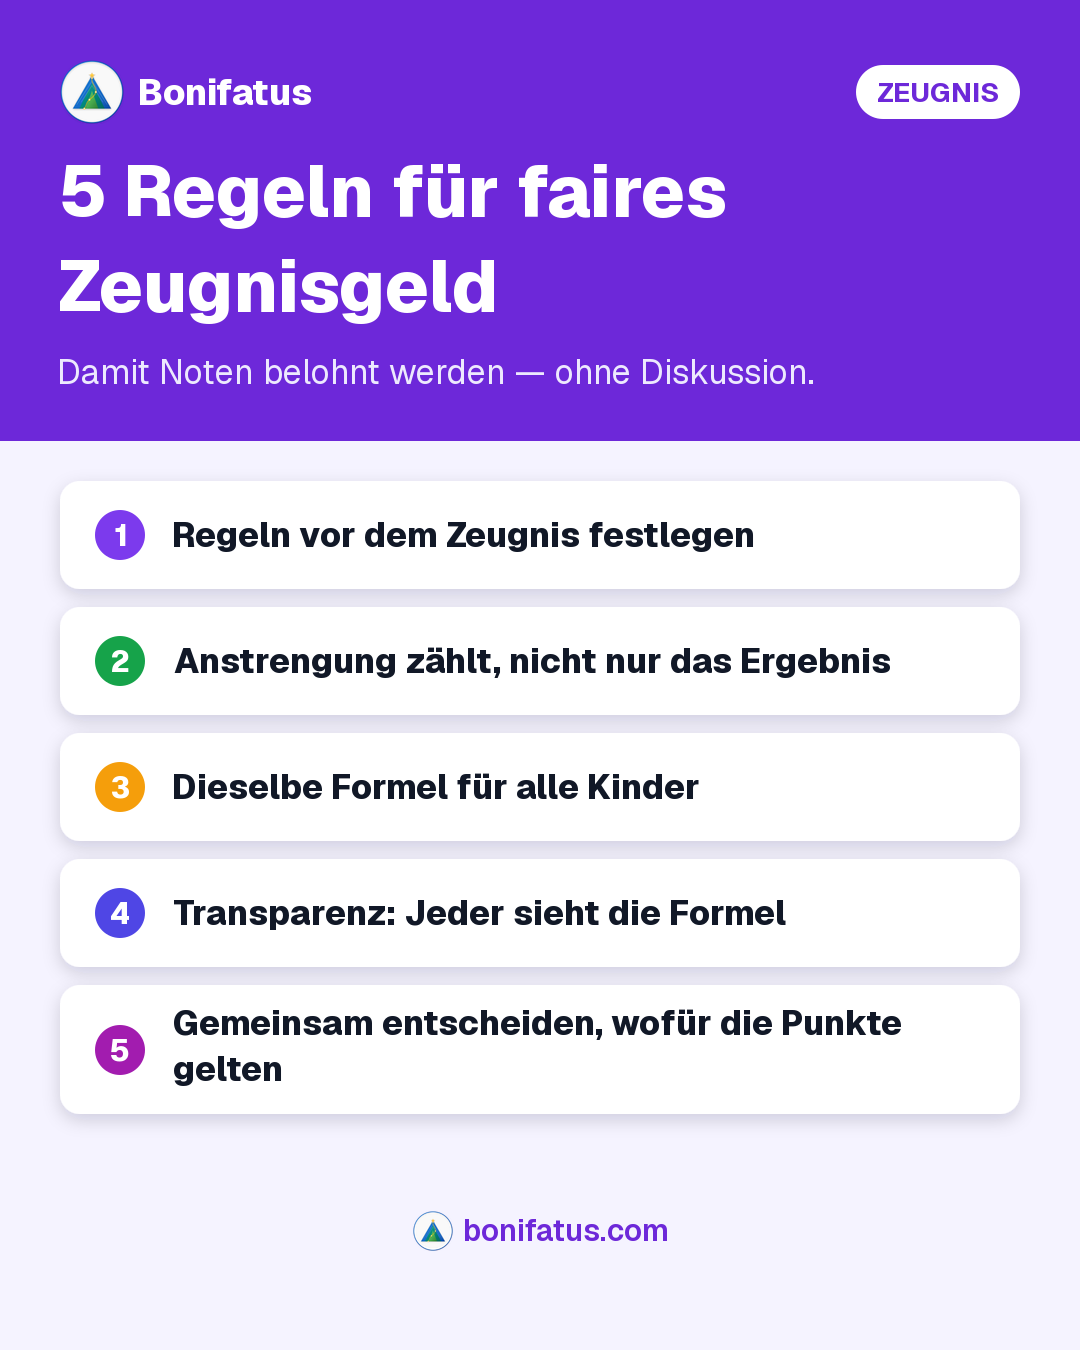
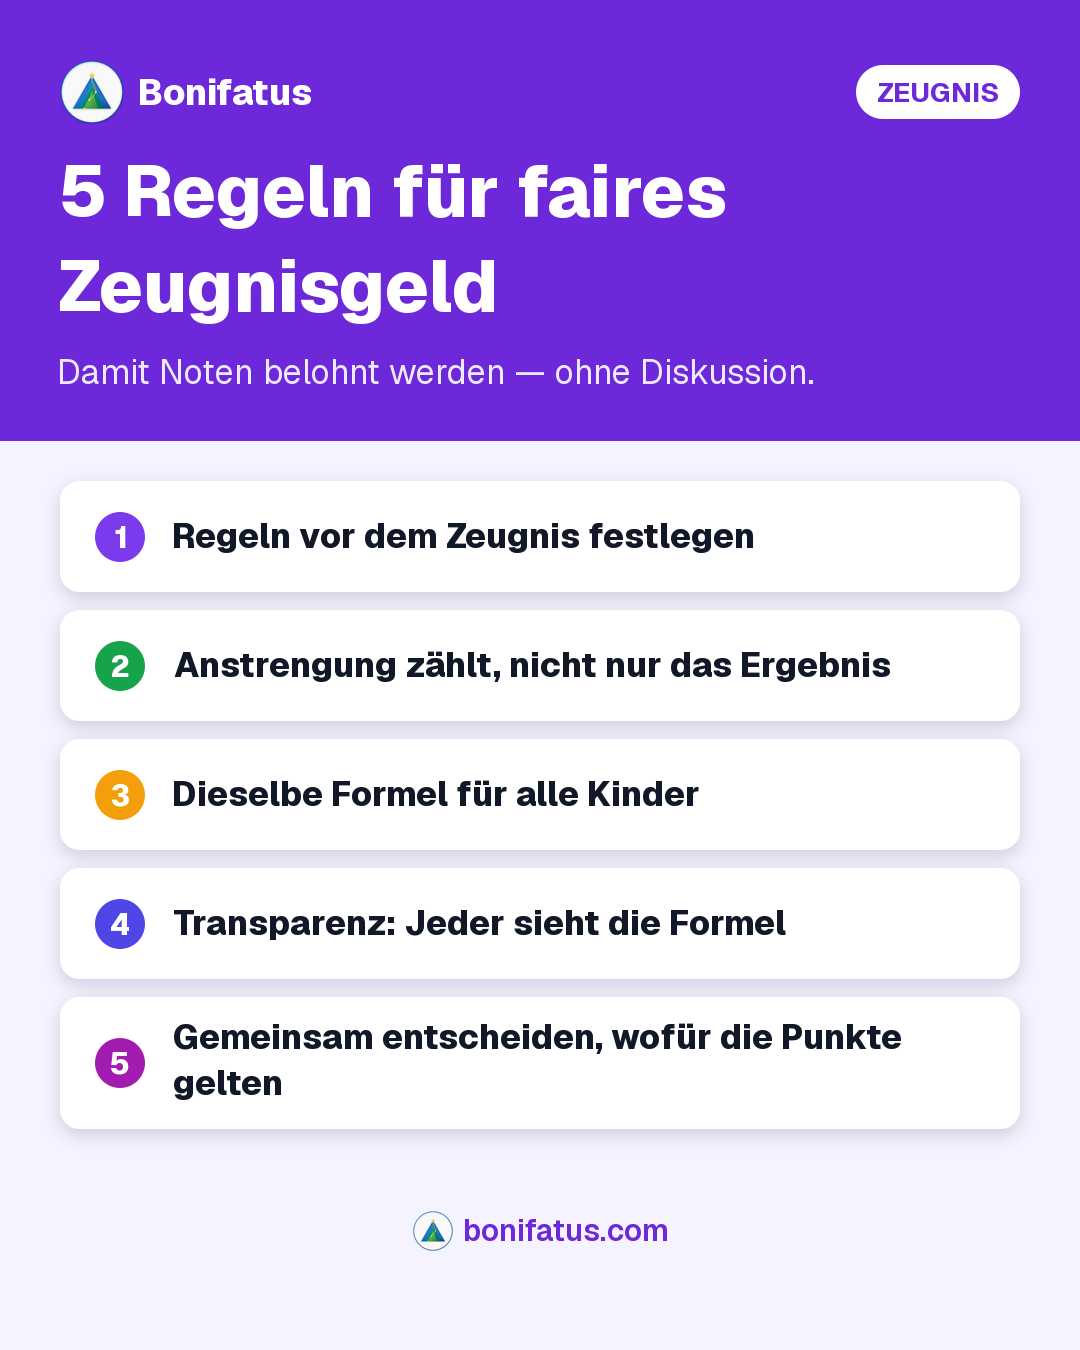
fix(social): fill the dead band above the footer on card-stack pins
The Ratgeber and "5 Regeln" builders pick the first layout variant that
fits and place cards from the top. The ladder steps coarsely (e.g. all
card bodies drop at once), so the ig 4:5 renders stranded 127-169px of
empty space between the source line and the footer.

spreadSlack() hands the unused height back to the stack: card padding
first (capped at +32px so cards never look hollow), then the gaps
(capped at +16px so the stack still reads as one group). Per-card
arithmetic, so 3- and 5-card assets need no per-file tuning; the footer
stays fixed.

ig gap above footer now 84-89px on all six Ratgeber pins (design
reserve is 82px); 1000x1500 pins drop from up to 188px to 54-60px.

diff --git a/scripts/make-social-assets.ts b/scripts/make-social-assets.ts
@@ -553,6 +553,27 @@ async function firstThatFits<T>(
   throw new Error(`${name}: no layout variant fits ${avail}px`)
 }
 
+/**
+ * Hand the height a chosen variant leaves unused back to a stack of `n` cards, so the
+ * stack ends near the footer instead of leaving an empty band above it. The variant
+ * ladders step in coarse jumps (e.g. dropping every card body at once), which on its own
+ * strands up to ~170px at the bottom of an ig frame.
+ *
+ * Padding grows first (cards get taller, their text stays centred), capped so a card never
+ * looks hollow; the remainder widens the gaps, capped so the stack still reads as one
+ * group. Anything beyond both caps stays below the stack. Per-card arithmetic, so a
+ * 3-card and a 5-card asset need no per-file tuning.
+ */
+function spreadSlack(slack: number, n: number) {
+  const PAD_GROW_MAX = 32
+  const GAP_GROW_MAX = 16
+  const s = Math.max(0, slack)
+  const padAdd = Math.min(Math.floor(s / n), PAD_GROW_MAX)
+  const rest = s - padAdd * n
+  const gapAdd = n > 1 ? Math.min(Math.floor(rest / (n - 1)), GAP_GROW_MAX) : 0
+  return { padAdd, gapAdd }
+}
+
 const pinTaschengeld: Builder = async (f, copy) => {
   const k = copy.pins.taschengeld
   const band = C.secondary700
@@ -705,17 +726,23 @@ const pinZeugnisgeldRegeln: Builder = async (f, copy) => {
   const cardH = (r: (typeof rules)[number], withBody: boolean, pad: number) =>
     Math.max(markerD, r.title.height + (withBody ? 8 + r.body.height : 0)) + pad
   const avail = f.size.contentBottom - y0 - 40
-  const [withBody, pad, gap] = await firstThatFits(
+  const measure = ([wb, p, g]: readonly [boolean, number, number]) =>
+    rules.reduce((a, r) => a + cardH(r, wb, p), 0) + g * (rules.length - 1)
+  const chosen = await firstThatFits(
     [
       [true, 48, 18],
       [true, 34, 14],
       [true, 26, 10],
       [false, 48, 18],
     ] as const,
-    async ([wb, p, g]) => rules.reduce((a, r) => a + cardH(r, wb, p), 0) + g * (rules.length - 1),
+    async (v) => measure(v),
     avail,
     'zeugnisgeld-regeln'
   )
+  const { padAdd, gapAdd } = spreadSlack(avail - measure(chosen), rules.length)
+  const withBody = chosen[0]
+  const pad = chosen[1] + padAdd
+  const gap = chosen[2] + gapAdd
   let y = y0 + 40
   for (const [i, r] of rules.entries()) {
     const h = cardH(r, withBody, pad)
@@ -791,7 +818,7 @@ const pinRatgeber =
       20 +
       source.height +
       (withCta ? 22 + ctaH : 0)
-    const [withBody, pad, gap, withCta] = await firstThatFits(
+    const chosen = await firstThatFits(
       [
         [true, 40, 16, true],
         [true, 30, 12, true],
@@ -804,6 +831,10 @@ const pinRatgeber =
       avail,
       `ratgeber ${k.headline}`
     )
+    const { padAdd, gapAdd } = spreadSlack(avail - measure(chosen), cards.length)
+    const [withBody, , , withCta] = chosen
+    const pad = chosen[1] + padAdd
+    const gap = chosen[2] + gapAdd
     let y = y0 + 36
 
     if (k.table) {
